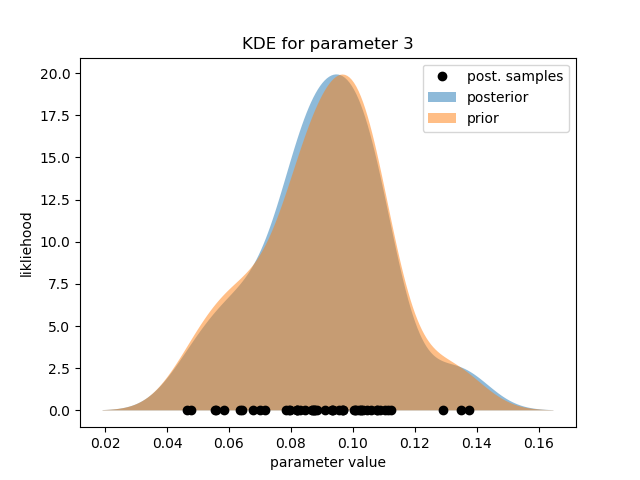
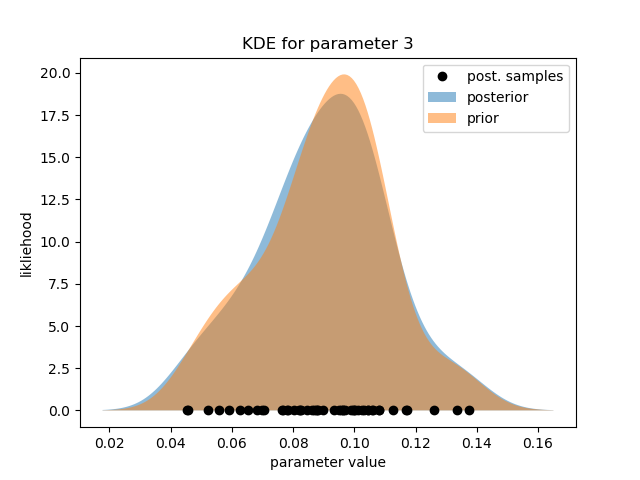
Finished debugging

diff --git a/4DEnVar_engine.c b/4DEnVar_engine.c
@@ -142,7 +142,8 @@ gsl_matrix * fourDEnVar_sample_posterior( gsl_matrix * xb, gsl_matrix * hx, gsl_
     
     /*calculate the perturbation matrix
     eqn 21 in Pinnington 2020*/
-    scale=1./sqrt((float)nens-1.);
+    //scale=1./sqrt((float)nens-1.);
+    scale=1.;
     X_dash_b = perturbation_matrix(xb,xb_bar,scale);
 
     /*calculate HXb matrix
@@ -161,9 +162,12 @@ gsl_matrix * fourDEnVar_sample_posterior( gsl_matrix * xb, gsl_matrix * hx, gsl_
 
     /*2. (HX'b)^T*work1 + I
     Note: work2 = I
+    Note: use use of scale here differs from Pinnington et al. 2021
     */
-     
-    gsl_blas_dgemm(CblasTrans, CblasNoTrans, 1.0, HX_dash_b, work1, 1.0, work2);
+    
+    scale=1./((float)nens-1.); 
+    //gsl_blas_dgemm(CblasTrans, CblasNoTrans, 1.0, HX_dash_b, work1, 1.0, work2);
+    gsl_blas_dgemm(CblasTrans, CblasNoTrans, scale, HX_dash_b, work1, 1.0, work2);
 
     /* 3. work2 now contains I+Y'b^T*R^-1*Y'b
     so need to take square root to give Wa. 
@@ -194,7 +198,7 @@ gsl_matrix * fourDEnVar_sample_posterior( gsl_matrix * xb, gsl_matrix * hx, gsl_
     */
     for( i=0; i<X_dash_a->size2; i++ ){
         for( j=0; j<X_dash_a->size1; j++ ){
-            tmp=gsl_matrix_get(X_dash_a,j,i)/scale+gsl_vector_get(xa,j);
+            tmp=gsl_matrix_get(X_dash_a,j,i)+gsl_vector_get(xa,j);
             gsl_matrix_set (X_a, j, i, tmp);
         }
     }

diff --git a/zero_order_tests/genZero.py b/zero_order_tests/genZero.py
@@ -13,6 +13,8 @@ class zeroOrderModelEnsemble:
         self.uncert_prior=uncert_prior 
         self.obs_uncert=obs_uncert
         
+        self.perturb_obs=True
+        
         self.nobs=nobs
         self.nens=nens
               
@@ -31,8 +33,10 @@ class zeroOrderModelEnsemble:
         self.obs=[]
         for n in range(len(self.nobs)):
             tmp=np.ones(self.nobs[n])*self.truth[n]
-            self.obs.append(tmp+self.obs_uncert[n]*np.random.randn(len(tmp)))
-            
+            if self.perturb_obs:
+                self.obs.append(tmp+self.obs_uncert[n]*np.random.randn(len(tmp)))
+            else:
+                self.obs.append(tmp)
         
     def plot(self,filename=None,analysis=None,full_posterior=None):
 
@@ -137,6 +141,8 @@ if __name__=="__main__":
     obs_uncert=[1.0,1.0]
 
     z=zeroOrderModelEnsemble(truth,prior,prior_uncert,nens,nobs,obs_uncert)
+    z.perturb_obs=False
+    z.gen_obs()
     z.write_files()
     #z.plot()
 
@@ -156,7 +162,7 @@ if __name__=="__main__":
         for j in range(nens):
             posterior[j,i]=float(line[j])
 
-        print(np.std(posterior[:,i]))    
+        print(np.std(z.ensemble[:,i]),np.std(posterior[:,i]))    
 
     z.plot(analysis=analysis,full_posterior=posterior)
 
